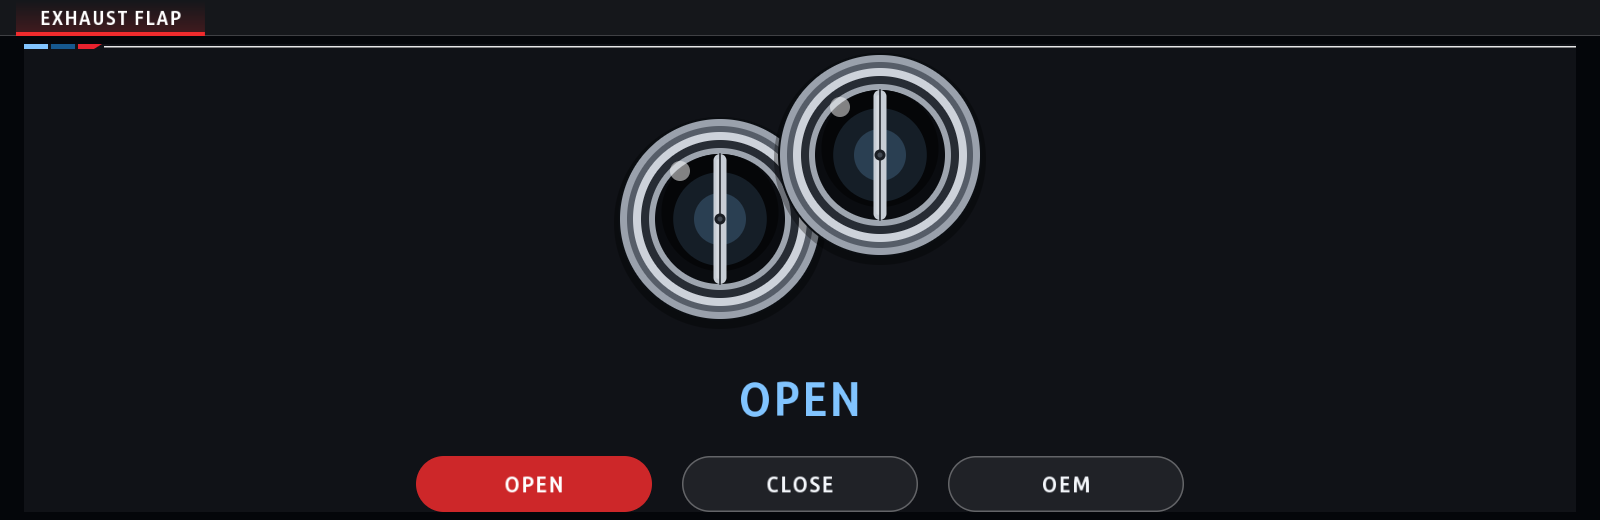
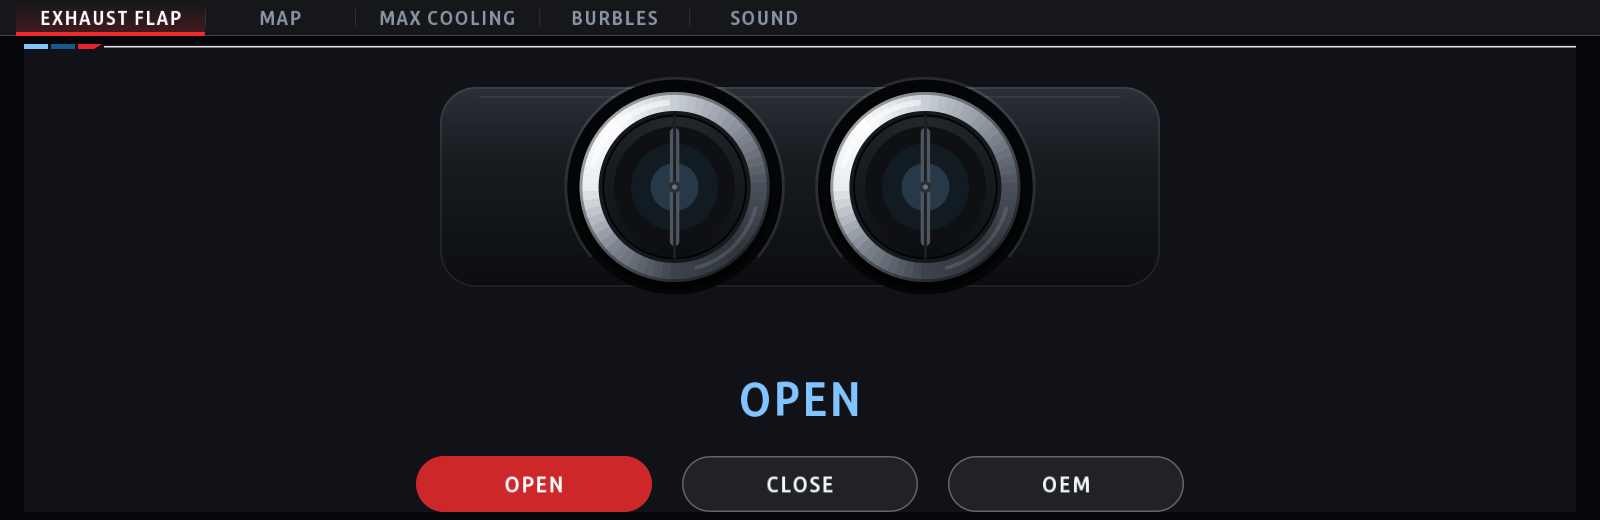
Engine Menu 0.4.0 (was Live Adjustments): twin tips side by side; M Vitals 2.19.0: Transmission page only with data
Engine Menu: the app is renamed (same id, so it updates in place) and the
Exhaust Flap page draws the twin tailpipes side by side on the valance, with
a lit chrome rim, pipe depth and the butterfly valves.

M Vitals: the gearbox unit is identified in the background; the Transmission
page shows once a listed ZF 8HP answers (setting Transmission page: Auto,
Show, Hide), and Chassis stands in while it is hidden.

Claude-Session: https://claude.ai/code/session_011p4KXjWCWSYi4nKMdFj2T9

diff --git a/apps/live_adjustments/ui.js b/apps/live_adjustments/ui.js
@@ -1,10 +1,10 @@
 'use strict';
 /**
- * ui.js - the Live Adjustments / Exhaust Flap screen, a PURE draw(cv, G, t, v) so it
+ * ui.js - the Engine Menu screens, a PURE draw(cv, G, t, v) so it
  * renders both on the car (main.js) and in the PC preview harness.
  *
  * House style of the other apps: an "Exhaust Flap" title with the M→white underline up
- * top, the twin tailpipes seen end-on with the butterfly valves opening/closing in the
+ * top, the twin tailpipes side by side seen end-on with the butterfly valves opening/closing in the
  * middle, the big state word, and the three mode buttons (OEM / Open / Close) across the
  * bottom — the selected one filled red, like the other apps (drawn with G.button; the
  * HMI bar is hidden in main.js). A fifth arg `act` carries the press callbacks.
@@ -38,8 +38,8 @@ function draw(cv, G, t, v, act) {
     // the "faixa" the other apps hide and we weren't drawing. ---
     G.panel(cv, t, 24, G.TOP, W - 48, G.BOTTOM - G.TOP, null);
 
-    // --- valve figure: twin tailpipes seen end-on, butterfly opening/closing ---
-    drawExhaust(cv, G, t, W / 2 - 310, G.TOP + 18, 620, 250, v);
+    // --- valve figure: twin tailpipes side by side seen end-on, butterfly opening/closing ---
+    drawExhaust(cv, G, t, W / 2 - 360, G.TOP + 18, 720, 250, v);
 
     // --- state word (big), centered below the figure (no DME/version clutter) ---
     const word = v.confirmed !== 'UNKNOWN' ? v.confirmed : v.requested;
@@ -187,46 +187,52 @@ function drawButtons(cv, G, t, v, act) {
 }
 
 /**
- * One tailpipe tip seen end-on: a chromed round bezel with a dark bore and the butterfly
- * valve inside. open 0 = shut (plate covers the bore), 1 = open (plate edge-on, bore
- * reveals). Built from concentric discs for a metallic look.
+ * One tailpipe tip seen end-on: a rolled chrome rim (lit from the top left), the inner pipe with
+ * depth, and the butterfly valve inside it. open 0 = shut (the plate fills the pipe), 1 = open
+ * (the plate edge-on).
  */
 function drawTip(cv, G, t, cx, cy, r, open, accent) {
     const wa = G.withAlpha;
-    cv.circle(cx, cy + 4, r + 6, wa('#000000', 0.32));      // soft drop shadow
-    cv.circle(cx, cy, r + 2, '#0b0e12');                     // outer edge
-    cv.circle(cx, cy, r, '#9aa1ac');                         // chrome base
-    cv.circle(cx, cy, r * 0.93, '#565d68');                  // shade ring
-    cv.circle(cx, cy, r * 0.87, '#cdd2da');                  // bright lip
-    cv.circle(cx, cy, r * 0.79, '#272c34');                  // groove
-    cv.circle(cx, cy, r * 0.71, '#9ea5af');                  // inner lip
-    const rb = r * 0.65;
-    cv.circle(cx, cy, rb, '#0a0c10');                        // dark bore
-    cv.circle(cx, cy - rb * 0.1, rb * 0.9, '#050608');       // bore depth
-    if (open > 0.4) {                                        // flow glow when open
+    cv.circle(cx, cy, r * 1.13, '#040506');                                   // cut-out in the valance
+    cv.arc(cx, cy, r * 1.13, r * 1.16, 230, 490, wa('#ffffff', 0.10));       // its lit edge
+    cv.circle(cx, cy + r * 0.06, r * 1.02, wa('#000000', 0.55));              // shadow under the tip
+    // chrome rim: colour by angle, bright top left, dark bottom right
+    cv.arc(cx, cy, r * 0.78, r, 0, 360, null, { ramp: ['#c9ced5', '#8b939d', '#4a5059', '#2f343b', '#3d434b', '#7d858f', '#e9edf1', '#fbfcfd', '#c9ced5'] });
+    cv.arc(cx, cy, r * 0.97, r, 0, 360, wa('#000000', 0.35));                 // outer edge
+    cv.arc(cx, cy, r * 0.86, r * 0.92, 285, 355, wa('#ffffff', 0.55), { round: true });   // specular on the roll
+    cv.arc(cx, cy, r * 0.86, r * 0.9, 105, 165, wa('#ffffff', 0.12), { round: true });    // bounce light
+    cv.arc(cx, cy, r * 0.76, r * 0.8, 0, 360, '#15181c');                     // lip into the pipe
+    // the pipe going in: darker toward the back
+    const rb = r * 0.74;
+    cv.circle(cx, cy, rb, '#0e1013');
+    cv.arc(cx, cy, rb * 0.86, rb, 0, 360, null, { ramp: ['#23272d', '#16191d', '#0b0d10', '#16191d', '#23272d'] });
+    cv.circle(cx, cy, rb * 0.62, '#07080a');
+    if (open > 0.4) {                                                         // light through the open valve
         const g = (open - 0.4) / 0.6;
-        cv.circle(cx, cy, rb * 0.72, wa(accent, 0.13 * g));
-        cv.circle(cx, cy, rb * 0.4, wa(accent, 0.20 * g));
+        cv.circle(cx, cy, rb * 0.62, wa(accent, 0.10 * g));
+        cv.circle(cx, cy, rb * 0.34, wa(accent, 0.18 * g));
     }
-    // butterfly plate: a vertical pill whose width shrinks as it opens
-    const ws = Math.max(0.10, Math.cos(open * Math.PI / 2 * 0.95));
-    const pw = 2 * rb * ws;
-    cv.roundRect(cx - pw / 2, cy - rb, pw, 2 * rb, Math.min(pw / 2, rb), '#c7cdd5');
-    if (pw > 12) cv.roundRect(cx - pw * 0.28, cy - rb * 0.92, pw * 0.3, rb * 1.84, Math.min(pw * 0.15, rb), wa('#ffffff', 0.28));
-    cv.line(cx, cy - rb, cx, cy + rb, 2, wa('#20242b', 0.8));
-    cv.circle(cx, cy, 5.5, '#1a1e24'); cv.circle(cx, cy, 2.5, '#434a53');   // hub
-    cv.circle(cx - r * 0.4, cy - r * 0.48, r * 0.1, wa('#ffffff', 0.5));    // specular dot
+    // butterfly plate on a vertical shaft: narrower as it opens
+    const pr = rb * 0.84, ws = Math.max(0.08, Math.cos(open * Math.PI / 2 * 0.95));
+    const pw = 2 * pr * ws;
+    cv.roundRect(cx - pw / 2, cy - pr, pw, 2 * pr, Math.min(pw / 2, pr), '#4f565f');
+    if (pw > 14) cv.roundRect(cx - pw / 2 + pw * 0.08, cy - pr * 0.94, pw * 0.34, pr * 1.88, Math.min(pw * 0.17, pr), wa('#ffffff', 0.16));
+    cv.line(cx, cy - rb, cx, cy + rb, 3, '#1c2026');                          // shaft
+    cv.circle(cx, cy, 6, '#2a2f36'); cv.circle(cx, cy, 2.5, '#6a727c');       // hub
 }
 
-/** Twin tailpipes seen end-on, with the butterfly valves opening/closing. */
+/** The rear valance with twin tips side by side (oo), the valves opening and closing. */
 function drawExhaust(cv, G, t, x, y, w, h, v) {
+    const wa = G.withAlpha;
     const a = (v.angle == null ? (v.confirmed === 'OPEN' ? 1 : v.confirmed === 'UNKNOWN' ? 0.5 : 0) : v.angle);
     const accent = (v.confirmed === 'OPEN' || v.requested === 'OPEN') ? (t.accent2 || '#81c4ff') : (t.crit || '#ef2b2d');
-    const cx = x + w * 0.5, cy = y + h * 0.5;
-    const r = Math.min(h * 0.40, w * 0.19);
-    const ox = r * 0.8, oy = r * 0.32;        // diagonal offset between the twin tips
-    drawTip(cv, G, t, cx - ox, cy + oy, r, a, accent);   // left/lower
-    drawTip(cv, G, t, cx + ox, cy - oy, r, a, accent);   // right/upper
+    const cx = x + w / 2, cy = y + h / 2;
+    const r = Math.min(h * 0.38, w * 0.14);
+    // valance: dark body colour, lit along its top edge
+    cv.card(x, y + h * 0.1, w, h * 0.8, 36, [[0, '#2b3038'], [0.35, '#181b20'], [1, '#0b0d10']]);
+    cv.strokeRoundRect(x, y + h * 0.1, w, h * 0.8, 36, 2, wa('#ffffff', 0.08));
+    cv.line(x + 40, y + h * 0.1 + 10, x + w - 40, y + h * 0.1 + 10, 2, wa('#ffffff', 0.06));
+    for (const side of [-1, 1]) drawTip(cv, G, t, cx + side * r * 1.32, cy, r, a, accent);
 }
 
 module.exports = { draw, W, H, PAGES };

diff --git a/apps/car_vitals/main.js b/apps/car_vitals/main.js
@@ -10,7 +10,8 @@
  *             config.dme), intake air above outside temperature
  *   (thermal also: gearbox temperature from the EGS when config.dme.egs has a source)
  *   chassis - friction circle (g-g diagram), tyre pressures + temperatures, xDrive split
- *   transmission - ZF 8HP gear, converter clutch, shaft speeds from the gearbox unit (config.gearbox)
+ *   transmission - ZF 8HP gear, converter clutch, shaft speeds from the gearbox unit (config.gearbox);
+ *             setting Auto shows it once a listed gearbox unit has answered
  *
  * Signals come straight from the car over SOME/IP (see app.json "signals").
  * With no car attached (the VM, or the unit on the bench) demo data can drive
@@ -475,12 +476,14 @@ mgu.run({
                 && !(G.isNum(live.splitRear) && now - splitAt < SPLIT_STALE);
             const onTrans = now - transSeen < 1500 && (zfId === null || zfOk());
             const fast = onFuelPage ? FUEL.filter(want) : now - engineSeen < 1500 && needBoost ? ['boost'] : onChassis ? ['lmv'] : onTrans ? ['zf'] : null;
+            // the gearbox unit is identified in the background, so Auto knows whether to show the Transmission page
+            const zfFind = zfId === null && settings.get('transmission') !== 'off';
             // misfire counts change slowly: every 4th fast round on its page (~2 s), every slow round otherwise
             pollFuel.n = (pollFuel.n || 0) + 1;
             const misNow = want('misfire') && (!fast || (onFuelPage && pollFuel.n % 4 === 0));
             try {
                 if (link.available) {
-                    const keys = (fast || FUEL.filter(want).concat(needBoost ? ['boost'] : [], needOil ? ['oil'] : [], want('egs') ? ['egs'] : [])).concat(misNow ? ['misfire'] : []);
+                    const keys = (fast || FUEL.filter(want).concat(needBoost ? ['boost'] : [], needOil ? ['oil'] : [], want('egs') ? ['egs'] : [], zfFind ? ['zf'] : [])).concat(misNow ? ['misfire'] : []);
                     for (const k of keys) {
                         if ((fuelFail[k] || 0) >= 3 && Date.now() - (fuelTry[k] || 0) < 30000) continue;
                         fuelTry[k] = Date.now();
@@ -541,13 +544,22 @@ mgu.run({
         /* ---------- drawing ---------- */
         let page = PAGES.indexOf(settings.get('page'));
         if (page < 0) page = 0;
+        const NAMES = { engine: 'Engine', thermal: 'Thermals', fuel: 'Fuel & ignition', chassis: 'Chassis', transmission: 'Transmission' };
+        /** The pages with tabs: Transmission only with a listed gearbox unit (Auto), or set to Show. */
+        const shownPages = () => PAGES.filter((p) => p !== 'transmission' || settings.get('transmission') === 'on'
+            || (settings.get('transmission') !== 'off' && (zfOk() || usingDemo())));
+        /** The page on screen: the chosen one, or Chassis while the chosen one is hidden. */
+        const curPage = () => (shownPages().indexOf(PAGES[page]) >= 0 ? PAGES[page] : 'chassis');
+        /** Next / previous shown page. */
+        const step = (d) => { const vis = shownPages(), i = vis.indexOf(curPage()); page = PAGES.indexOf(vis[(i + d + vis.length) % vis.length]); };
         const trail = [];
 
         const GO = '#2fd27a';
 
         /** G20-style frame: tab bar with the page names along the top. */
         function header(cv, t) {
-            G.frame(cv, t, ['Engine', 'Thermals', 'Fuel & ignition', 'Chassis', 'Transmission'], page, [usingDemo() && { text: 'DEMO' }]);
+            const vis = shownPages();
+            G.frame(cv, t, vis.map((p) => NAMES[p]), vis.indexOf(curPage()), [usingDemo() && { text: 'DEMO' }]);
         }
 
         /** Power in kW: { kw, calc } (calc = estimated from torque x rpm, no sport-display data). */
@@ -880,15 +892,15 @@ mgu.run({
         async function render() {
             const t = ctx.theme(), d = data();
             const cv = ctx.canvas(W, H).clear(t.bg);
-            [drawEngine, drawThermal, drawFuel, drawChassis, drawTransmission][page](cv, t, d);
+            ({ engine: drawEngine, thermal: drawThermal, fuel: drawFuel, chassis: drawChassis, transmission: drawTransmission })[curPage()](cv, t, d);
             header(cv, t);
             if (!render.n) { render.n = 1; log.info('first frame drawn'); }
             await ui.image('MAIN_GFX', cv);
         }
 
-        ui.onClick('BTN_PAGE', () => { page = (page + 1) % PAGES.length; return render(); });
-        ui.onClick('BTN_PREV', () => { page = (page + PAGES.length - 1) % PAGES.length; return render(); });
-        ctx.onTab((i) => { page = i; return render(); });
+        ui.onClick('BTN_PAGE', () => { step(1); return render(); });
+        ui.onClick('BTN_PREV', () => { step(-1); return render(); });
+        ctx.onTab((i) => { const p = shownPages()[i]; if (p) page = PAGES.indexOf(p); return render(); });
         // every screen refresh (60 fps) with the GPU renderer; 10 fps in software (PNG frames)
         ctx.loop('MAIN', 10, render);
         settings.onChange((k) => {

diff --git a/apps/live_adjustments/main.js b/apps/live_adjustments/main.js
@@ -1,6 +1,6 @@
 'use strict';
 /**
- * Live Adjustments - native live tweaks for the BMW MGU (iDrive 7). Pages: Exhaust Flap, and on a
+ * Engine Menu - native live tweaks for the BMW MGU (iDrive 7). Pages: Exhaust Flap, and on a
  * tuned DME (found by a read-only unlock check) Map (slot 1..4, MHD or BM3), Max cooling (MHD),
  * Burbles and Sound (Active Sound Design) (BM3).
  *

diff --git a/README.md b/README.md
@@ -119,8 +119,8 @@ More in [How apps draw](#44-how-apps-draw-remote-hmi-rhmi) and [`kit/renderd`](k
 <td><img src="docs/screens/edrive2_battery.png" alt="eDrive battery page"><br><b>eDrive</b>: cell temperatures and voltages, coolant, power the battery allows</td>
 </tr>
 <tr>
-<td><img src="docs/screens/live_adjustments.png" alt="Live Adjustments, exhaust flap open"><br><b>Live Adjustments</b>: exhaust flap open, closed or handed back to the car (OEM), state read back from the DME</td>
-<td><img src="docs/screens/live_adjustments_closed.png" alt="Live Adjustments, exhaust flap closed"><br><b>Live Adjustments</b>: flap closed, the selected mode in red; more adjustments can be added as tabs</td>
+<td><img src="docs/screens/live_adjustments.png" alt="Engine Menu, exhaust flap open"><br><b>Engine Menu</b>: exhaust flap open, closed or handed back to the car (OEM), state read back from the DME</td>
+<td><img src="docs/screens/live_adjustments_closed.png" alt="Engine Menu, exhaust flap closed"><br><b>Engine Menu</b>: flap closed, the selected mode in red; more adjustments can be added as tabs</td>
 </tr>
 </table>
 
@@ -163,13 +163,13 @@ the unit and kept across reboots.
 | **Drag Timer** | 0-50, 0-100, 100-200, 0-200 km/h and ¼ mile (or mph equivalents), with interpolated splits, optional one-foot rollout, a live speed trace and saved best times. |
 | **G-Force** | Friction circle with a fading trail and a grip envelope that grows as you use more grip in each direction. Live lateral/longitudinal bars, session peaks per direction, time spent above 0.5 g, all-time records. The g numbers update at the *G-force display rate* (10 a second by default); the dot and trail move at full frame rate. |
 | **Warm-Up** | Oil and coolant gauges and a warm-up calculator: minutes and clock time until oil and coolant reach working temperature, from the measured warm-up rate (typical rates until enough is measured, "engine off" when a hybrid drives electric), projected on a temperature trend graph. A safe rev limit that rises with oil temperature, and a turbo cool-down countdown after hard driving (high rpm or high power: 30 s to 3 min of gentle driving, depending on how long you drove hard). |
-| **M Vitals** | A sport cluster: rpm, boost, speed with the gear (D / S / M + number), power from the iDrive sport display (its % × your car's max power, so stock or tuned engines both read right; kW, hp or PS) and torque (Nm or lb-ft), coolant and oil temperature, g-forces and more, over several pages, with peak values.  A Fuel & ignition page shows intake air temperature (IAT), high-pressure fuel (HPFP / rail) and low-pressure fuel (LPFP) pressure, ignition timing, boost target against actual boost and requested against actual air charge (with a 5-minute trace of both, BMW DME DIDs 4AB0 / 580B / 480C / 5813 with OBD PID 0x70 as the fallback) and the misfire counter of every cylinder (this driving cycle, OBD service 06), read from the DME over UDS / OBD (standard OBD data IDs, adjustable in `app.json` config.dme), plus how much warmer the intake air is than outside; the Thermals page adds the gearbox temperature from the gearbox unit (EGS, config.dme.egs). Each of these has an Auto / Show / Hide setting, and the tiles share the screen: whatever the car doesn't answer is left out. Tyre pressures (against the car's target) and temperatures are shown large on the Chassis page; its xDrive card can be set to Auto (shown once the car reports all-wheel drive), Show or Hide for rear-wheel-drive cars. When the car's own torque split signal sends nothing, the card reads the torque going to the front axle from the transfer case unit (LMV, UDS `22 DB32`, `app.json` config.xdrive) and estimates the split from engine torque and the gear; the card says where its number comes from. A Transmission page shows the ZF 8HP gear with the selector, the converter clutch state and the turbine and output shaft speeds, read from the gearbox unit (EGS, UDS `22 DA2E / DA22 / DA2A`, `app.json` config.gearbox, from PR #29) while it is on screen, on gearboxes whose identification is listed there. Boost, gearbox oil temperature, the tyre card and tyre temperatures have the same Auto / Show / Hide setting: Auto shows them once the car has sent real data, and a hidden item gives its space to the others. Values outside a plausible range (a tyre at 255 °C) and fields that never change (gearbox oil stuck at 0 °C) count as no data; the raw values the car sends for these go to the log (`raw tyre temperature`, `raw gearbox oil`, `raw FES boost`), to calibrate `app.json` config.scaling. Boost comes from the sport display, or, when that sends nothing usable, from the DME over OBD (charge / manifold pressure minus outside air pressure, candidates in config.dme.boost); the setting Boost from picks one by hand. Dials run from blue to red as they near the redline / boost limit. |
+| **M Vitals** | A sport cluster: rpm, boost, speed with the gear (D / S / M + number), power from the iDrive sport display (its % × your car's max power, so stock or tuned engines both read right; kW, hp or PS) and torque (Nm or lb-ft), coolant and oil temperature, g-forces and more, over several pages, with peak values.  A Fuel & ignition page shows intake air temperature (IAT), high-pressure fuel (HPFP / rail) and low-pressure fuel (LPFP) pressure, ignition timing, boost target against actual boost and requested against actual air charge (with a 5-minute trace of both, BMW DME DIDs 4AB0 / 580B / 480C / 5813 with OBD PID 0x70 as the fallback) and the misfire counter of every cylinder (this driving cycle, OBD service 06), read from the DME over UDS / OBD (standard OBD data IDs, adjustable in `app.json` config.dme), plus how much warmer the intake air is than outside; the Thermals page adds the gearbox temperature from the gearbox unit (EGS, config.dme.egs). Each of these has an Auto / Show / Hide setting, and the tiles share the screen: whatever the car doesn't answer is left out. Tyre pressures (against the car's target) and temperatures are shown large on the Chassis page; its xDrive card can be set to Auto (shown once the car reports all-wheel drive), Show or Hide for rear-wheel-drive cars. When the car's own torque split signal sends nothing, the card reads the torque going to the front axle from the transfer case unit (LMV, UDS `22 DB32`, `app.json` config.xdrive) and estimates the split from engine torque and the gear; the card says where its number comes from. A Transmission page shows the ZF 8HP gear with the selector, the converter clutch state and the turbine and output shaft speeds, read from the gearbox unit (EGS, UDS `22 DA2E / DA22 / DA2A`, `app.json` config.gearbox, from PR #29) while it is on screen, on gearboxes whose identification is listed there; its setting Auto shows the page only once such a gearbox has answered, Show / Hide override that. Boost, gearbox oil temperature, the tyre card and tyre temperatures have the same Auto / Show / Hide setting: Auto shows them once the car has sent real data, and a hidden item gives its space to the others. Values outside a plausible range (a tyre at 255 °C) and fields that never change (gearbox oil stuck at 0 °C) count as no data; the raw values the car sends for these go to the log (`raw tyre temperature`, `raw gearbox oil`, `raw FES boost`), to calibrate `app.json` config.scaling. Boost comes from the sport display, or, when that sends nothing usable, from the DME over OBD (charge / manifold pressure minus outside air pressure, candidates in config.dme.boost); the setting Boost from picks one by hand. Dials run from blue to red as they near the redline / boost limit. |
 | **Fault Scanner** | Scans every control unit for stored fault codes (UDS over the head unit's diagnostic gateway), shows them per module with status, shows live Check Control messages, and can clear fault memories (two-press confirm). Fault texts come from your car's own coding-tool export (`kit/tools/dtc_texts.py`), a few hand-written ones, and, if you import one, a fault text database for every control unit (`kit/tools/dtc_texts.py --db`): units with faults are then asked their SGBD index (UDS 22 F1 50), which picks their texts and their name. Only English texts are imported (one with German in it is left out, and that fault shows no text). A fault code list (CSV, `kit/tools/dtc_texts.py --codes`) fills in faults that still have none, for the units its texts belong to. Fault text tables (the `dtc_scanner_*.json` files, `kit/tools/dtc_tables.py`, after `--db`) add a text for each unit type and each address. The build packs the whole database into one compressed file (`dtc_db.pack`: about 19 MB of texts in 3.7 MB, `kit/tools/pack_data.py`), and the app only unpacks the few KB that hold the codes it shows. The repository ships the fault text tables already packed (`apps/dtc_scanner/dtc_db.pack`: the tables and the SGBD index, used with permission); a local `dtc_db/` folder you import replaces it. Imported databases and car exports stay out of git. |
 | **eDrive** | For plug-in hybrids / EVs: real electric range that adapts to how your car is driven: the charge above the point where the engine starts, divided by what the car uses per km for driving (learned from electric-only driving, last ~60 km) plus what climate control and the on-board electrics draw per hour (heating when cold, A/C when hot, learned per outside-temperature band while standing or creeping with the engine off). Driving is learned per speed band (under 35, 35-60, 60-85, 85-110, over 110 km/h) and the range uses your current pace, so motorway driving shows less range than town. The climate's draw is also learned while driving (what it uses above the same speed with the climate off), seat and steering-wheel heating are counted from their levels, and an Energy page shows use per speed band, where the power goes now (driving, climate, seats, wheel, on-board, with the km each costs), the car's own power distribution figures and the HV battery temperature (also on the Range page). The climate draw costs range by the hour, so it costs more of it in slow traffic; the screen shows it in kW and the km it costs. Whether climate control is on comes from the car itself (ClimateMaster `statusClimateSystemOn`): switched off, only the on-board electrics (learned separately, typically 0.3 kW) are taken off and the range goes up; switched on, it goes down again (shown as CLIMATE ON / CLIMATE OFF, with A/C when the A/C button is on). Until it has learned, the range comes from the outside temperature (a full battery gives 50 km at 20 °C, 40-45 km at 10 °C, 30-38 km at 0 °C, 20-30 km at -10 °C, scaled to your own 20 °C range), shown with its low-high spread, battery health (SOH: how much a full charge holds compared to new, in % and kWh) and the energy in the battery now (kWh; the battery size when new is a setting, e.g. 12 kWh for a 330e / 530e, 24 kWh for an X5 45e). Also shows the last HV battery charge (+%, kWh, km added; a charge done while the head unit slept shows at the next start) and the 12 V battery voltage. A charge log page lists every charge (date, % and kWh added, range added, cost from your electricity price, 0.25 €/kWh by default) with monthly / all-time totals and a 14-day chart. On a car without a hybrid system it detects that the battery unit never answers and shows only the 12 V battery (or set Hybrid system = No). Charge and SOH are read from the battery control unit over UDS; a Diagnostics page shows the raw replies so the DIDs can be adjusted per model in `app.json`. |
 | **eDrive: live pages** | eDrive's live values (`apps/edrive/live.js`), set up for the X5 xDrive45e (24 kWh) and adjustable for other plug-in hybrids. **Battery:** the HV battery's power now in kW (pack voltage x current from the battery unit, read every second; + driving, - regen or charging) on a bar from the most regen to the most drive power the battery allows right now, a two-minute trace, cell temperature and coolant; every cell's voltage as a bar (lowest / highest marked, the spread between them); and this drive: energy used, regen, net, how much of it went to driving and to the climate, and peaks (Reset drive totals in the menu starts a new one). **Climate on the Energy page:** standing still with the engine off and not plugged in, the pack feeds only the car's own consumers, so that draw minus the on-board baseline (learned with the climate off) is what heating / A/C really use; the Energy page's climate row shows that measurement (or the climate unit's own figures) instead of the estimate. Values come from the battery unit (SME) over UDS: `DD68` pack voltage, `DD69` current, `DDBF` cell voltages, `DDC0` cell temperatures, `DD6C` coolant, `DD7D` current limits (BMW's identifiers as OVMS decodes them on the i3); a Diagnostics page shows the replies, and `powerSign` flips the direction if a car reports current the other way. The **home-screen widget** (`startWidget`) shows live power, state, V / A, charge, a power bar, cells and this drive (big widget), or the same as text lines (small one); the Battery unit and Scan pages come with the Diagnostics pages setting. |
 | **Service** | The car's service requirements (BMW Condition Based Service) as the iDrive's own *Vehicle status > Service requirements* shows them: engine oil, brakes, brake fluid, vehicle check, inspection and the rest, each with the distance and date the car gives (in its own language and units), coloured green / yellow / red, a summary of the next service, and the item's service hint text as details. Read from the instrument cluster (`KombiInterface_2`). Read-only: these cars offer the head unit no service reset (that is done in the cluster's own menu or by a workshop). |
 | **Doom** | Freedoom: Phase 1 (four episodes, free game data) running in the head unit as WebAssembly. The engine draws the 3D view in full resolution across the whole screen (1920 x 504, Doom's vertical field of view widened to the screen), with the status bar, menus and messages on top at 4:3; 35 fps on the VM. A main menu (Play / Continue, New game, all settings) comes first; the game then has the screen to itself with no header or button bar, and BACK returns to the menu. **Turn the controller to aim, push it to walk and sidestep, press to fire and open doors, press twice for the next weapon.** While you play, the game has the controller to itself: the HMI ignores the knob, press and tilt, so pushing forward no longer opens the HMI's pull-down menu and pushing left no longer leaves the game. BACK, MENU and the touchscreen always work. This uses the controller gate that `deploy-car.sh` loads into the HMI (see [5.1](#51-what-deploy-carsh-install-does)). Without the gate, the game reads the controller signal itself and the HMI reacts to it too. It pauses when you leave the screen or a popup / call covers it, and saves itself each time, so it carries on where you stopped. Settings, in the main menu: difficulty, episode, move speed (slow walk by default, walk, run), aim speed and direction, render resolution (full / medium / low). GPL-2.0, see [Doom licences](#doom-licences). **Parked only** by default: the game saves and waits while the car drives (setting *Parked only*, can be turned off). |
-| **Live Adjustments** | Live tweaks as tabs: **Exhaust Flap**, **Map**, **Max cooling**, **Burbles** and **Sound**. Exhaust Flap: Open, Close, or hand control back to the car (OEM), shown as the twin tailpipes opening and closing with the big state word. **Safe by default** — the *Car control* setting ships **Disarmed** (simulated, touches nothing); set it to **Armed** only after you have validated it on your own car. On a stock DME the flap goes over the car's own diagnostic link (UDS `2F 60FD` "EL_AGK", Bosch MG1 / DME8 as used by B48 / B58 / S58; OPEN 10 %, CLOSE 90 %, OEM hands control back; the DME self-times the override in ~20 s). On an **MHD-flashed DME** — found by a read-only unlock check, the memory tag MHD's own app reads — the tune's own controls are used: **Map** slot 1–4 (`2F 01`, a second press confirms), the flap (`2F 02`) and **Max cooling** on / off (`2F 03`), as captured from MHD's app by a1-mapping (PR #23). On a **BM3 CustomROM** — found by reading BM3's ROM marker (`2C` + `22 F301`) and matching the ROM to a known layout — **Map** slot 1–4 and **Burbles** (aggression 0–12 in 0.5 steps, or off) are written to DME memory and read back, the flap uses BM3's values, and **Sound** turns Active Sound Design on / off (`2E 5FFD`), from BM3 Live by ezl0l (PR #29). The *Platform* setting picks **Auto detect** (the unlock checks decide), **Bootmod3** or **MHD**: a set platform skips the other check and uses its controls without the unlock check, except BM3's Map and Burbles, which still need the ROM identified (they write its memory). Without the flash a page needs, it says so and sends nothing. |
+| **Engine Menu** | Live engine tweaks as tabs: **Exhaust Flap**, **Map**, **Max cooling**, **Burbles** and **Sound**. Exhaust Flap: Open, Close, or hand control back to the car (OEM), shown as twin tailpipes side by side opening and closing with the big state word. **Safe by default** — the *Car control* setting ships **Disarmed** (simulated, touches nothing); set it to **Armed** only after you have validated it on your own car. On a stock DME the flap goes over the car's own diagnostic link (UDS `2F 60FD` "EL_AGK", Bosch MG1 / DME8 as used by B48 / B58 / S58; OPEN 10 %, CLOSE 90 %, OEM hands control back; the DME self-times the override in ~20 s). On an **MHD-flashed DME** — found by a read-only unlock check, the memory tag MHD's own app reads — the tune's own controls are used: **Map** slot 1–4 (`2F 01`, a second press confirms), the flap (`2F 02`) and **Max cooling** on / off (`2F 03`), as captured from MHD's app by a1-mapping (PR #23). On a **BM3 CustomROM** — found by reading BM3's ROM marker (`2C` + `22 F301`) and matching the ROM to a known layout — **Map** slot 1–4 and **Burbles** (aggression 0–12 in 0.5 steps, or off) are written to DME memory and read back, the flap uses BM3's values, and **Sound** turns Active Sound Design on / off (`2E 5FFD`), from BM3 Live by ezl0l (PR #29). The *Platform* setting picks **Auto detect** (the unlock checks decide), **Bootmod3** or **MHD**: a set platform skips the other check and uses its controls without the unlock check, except BM3's Map and Burbles, which still need the ROM identified (they write its memory). Without the flash a page needs, it says so and sends nothing. |
 
 On the VM or a bench unit without vehicle data, every app switches to a built-in demo drive
 after 5 seconds (launch, pull through the gears, a hard stop, corners, an engine warming up from
